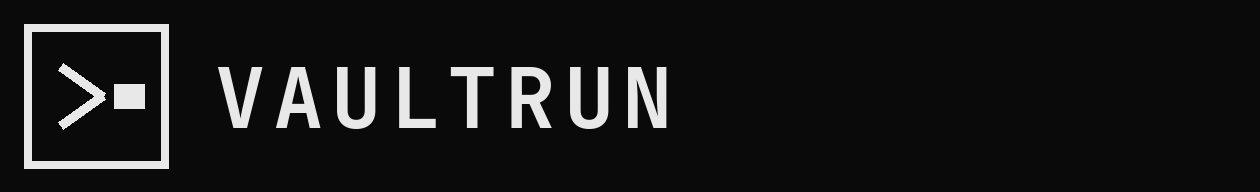
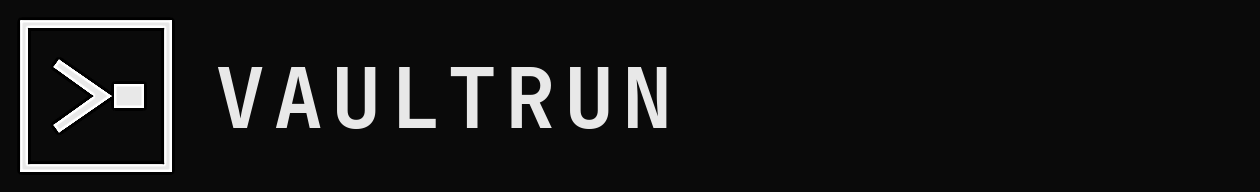
fix(brand): sharp mitered chevron and centered LinkedIn tagline
Draw the >_ mark as a mitered stroke polygon at 8× then downsample, and
ship a 1024px page logo. Center the cover tagline under VAULTRUN so it
reads as one lockup instead of hanging off the left of the wordmark.

Changed region(s): [[0.0, 0.0938, 0.1548, 0.9062], [0.0619, 0.4688, 0.0929, 0.5312]]

diff --git a/site/brand/README.md b/site/brand/README.md
@@ -31,7 +31,7 @@ Terminal prompt inside a square frame: `>_`
 | `og.png` | 1200×630 | Open Graph / LinkedIn / X link preview |
 | `social-square.png` | 1080×1080 | Profile / square posts |
 | `video-endcard.png` | 1920×1080 | Demo video end card |
-| `linkedin-logo.png` | 400×400 | Company Page logo |
+| `linkedin-logo.png` | 1024×1024 | Company Page logo (square mark only) |
 | `linkedin-cover.png` / `linkedin-cover.jpg` | 4200×700 | Company Page cover. **Upload the JPEG.** Type is right-weighted. |
 | `linkedin-profile-banner.png` | 1584×396 | Founder personal-profile banner |
 | `linkedin-first-post.png` | 1080×1080 | Attach to the Page launch post |
